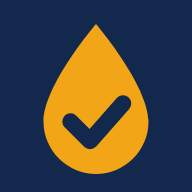
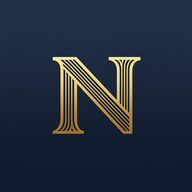
Nova marca NexStock: nome e logótipo N dourado
Ícones PWA (192/512, maskable), favicon, apple-touch-icon e cabeçalho com
o novo N; nome NexStock no título, manifest, rodapé e remetente dos emails.

Claude-Session: https://claude.ai/code/session_014tttz5mpDHSvovnBSabwYY

diff --git a/index.html b/index.html
@@ -1,8 +1,8 @@
 <!doctype html>
 <html lang="pt-PT"><head>
 <meta charset="utf-8"><meta name="viewport" content="width=device-width,initial-scale=1,viewport-fit=cover">
-<meta name="theme-color" content="#12294d"><link rel="icon" href="logo.svg" type="image/svg+xml"><link rel="apple-touch-icon" href="icon-192.png"><meta name="description" content="Stock Tabaco - inventário e movimentos centralizados">
-<link rel="manifest" href="manifest.json"><title>Stock Tabaco Central</title>
+<meta name="theme-color" content="#12294d"><link rel="icon" href="logo.png" type="image/png"><link rel="apple-touch-icon" href="apple-touch-icon.png"><meta name="description" content="NexStock - inventário e movimentos centralizados">
+<link rel="manifest" href="manifest.json"><title>NexStock</title>
 <style>
 :root{--g:#12294d;--g2:#1d3f73;--acc:#f2a516;--bg:#f2f5f9;--card:#fff;--txt:#17202c;--mut:#5d6b7d;--bd:#d9e1ec;--red:#b42318;--amber:#93590b}
 *{box-sizing:border-box}body{margin:0;background:var(--bg);color:var(--txt);font:16px system-ui,-apple-system,Segoe UI,Roboto,sans-serif}
@@ -18,7 +18,7 @@ button{font:inherit;cursor:pointer}.btn{border:0;border-radius:10px;padding:12px
 </style><script src="https://cdn.jsdelivr.net/npm/@supabase/supabase-js@2.45.4/dist/umd/supabase.js"></script>
 <script src="config.js"></script>
 </head><body>
-<header><div class="head"><div class="brand"><img src="logo.svg" alt=""><div><h1>Stock Tabaco</h1><p>Posto de abastecimento · inventário e saídas</p></div></div><div style="display:flex;gap:6px;align-items:center"><button id="logoutBtn" class="btn alt mini hidden">Sair</button><button id="installBtn" class="btn alt mini" hidden>Instalar</button></div></div></header>
+<header><div class="head"><div class="brand"><img src="logo.png" alt="NexStock"><div><h1>NexStock</h1><p>Posto de abastecimento · inventário e saídas</p></div></div><div style="display:flex;gap:6px;align-items:center"><button id="logoutBtn" class="btn alt mini hidden">Sair</button><button id="installBtn" class="btn alt mini" hidden>Instalar</button></div></div></header>
 <main>
 <section id="loginPanel" class="card">
 <h2>Acesso à aplicação</h2>
@@ -73,7 +73,7 @@ button{font:inherit;cursor:pointer}.btn{border:0;border-radius:10px;padding:12px
 <div class="card"><h2>Gestão de produtos</h2><p class="notice">Escolha um artigo para editar ou "Novo artigo" para criar. O stock só muda com entradas, contagens ou inventário.</p><label for="edSel">Artigo</label><select id="edSel"></select><label for="newName">Nome do produto</label><input id="newName" placeholder="Nome"><label for="newCategory">Categoria</label><select id="newCategory"><option>Cigarros</option><option>Onças</option><option>Tabaco aquecido</option><option>Cigarros eletrónicos</option><option>Latas</option><option>Sacos</option><option>Cigarrilhas</option><option>Outros</option></select><label for="newRepsol">Código Repsol (opcional)</label><input id="newRepsol" inputmode="numeric" placeholder="Código interno Repsol"><label for="newCode">Código de barras do maço ou unidade (opcional)</label><input id="newCode" inputmode="numeric" placeholder="Código"><label for="newVolCode">Código de barras do volume (opcional)</label><input id="newVolCode" inputmode="numeric" placeholder="Código do volume"><label for="newVolSize">Maços por volume</label><input id="newVolSize" type="number" min="1" step="1" value="10"><label for="newNotes">Notas (opcional)</label><input id="newNotes" placeholder="Notas"><label for="newQty" id="newQtyLbl">Stock inicial</label><input id="newQty" type="number" min="0" step="1" value="0"><p id="edStock" class="notice hidden"></p><button class="btn" id="addProduct" style="width:100%;margin-top:10px">Guardar produto</button><hr><h3>Exportações e backups</h3><div class="actions"><button class="btn alt" id="exportStock">Exportar stock CSV</button><button class="btn alt" id="exportMoves">Exportar movimentos CSV</button><button class="btn alt" id="backup">Backup JSON</button></div><label class="btn alt" style="display:block;text-align:center;margin-top:8px">Importar backup<input type="file" id="restore" accept=".json,application/json" hidden></label></div>
 <div class="card"><h2>Configuração da base de dados central</h2><p class="notice">A ligação é autenticada. Nunca coloques uma chave service_role nesta aplicação.</p><label for="sbUrl">URL do projeto Supabase</label><input id="sbUrl" placeholder="https://xxxx.supabase.co"><label for="sbKey">Chave pública anon/publishable</label><input id="sbKey" placeholder="Chave pública do projeto"><button class="btn" id="saveCloud" style="width:100%;margin-top:10px">Guardar configuração e testar</button><p id="cloudStatus" class="notice">Estado: modo local neste dispositivo. Sem configuração, não existe sincronização entre telemóveis.</p></div>
 <div class="card"><h2>Importante</h2><p class="notice">O pacote contém a aplicação e o catálogo inicial. Para funcionar de forma centralizada em vários telemóveis, é necessário criar o projeto Supabase, aplicar o esquema SQL fornecido no pacote e configurar as credenciais. O alojamento HTTPS é necessário para usar a câmara.</p></div>
-</section><footer>Stock Tabaco · Faça backups regulares</footer></div></main><div id="toast"></div><div id="sendModal" class="hidden"><div class="card"><h2>Terminou a contagem?</h2><p id="sendInfo" class="notice"></p><p>Quer enviar o stock para a empresa?</p><div class="actions"><button class="btn alt" id="sendNo">Ainda não</button><button class="btn acc" id="sendYes">Enviar</button></div></div></div><div id="flash"><div><b></b><span></span></div></div>
+</section><footer>NexStock · Faça backups regulares</footer></div></main><div id="toast"></div><div id="sendModal" class="hidden"><div class="card"><h2>Terminou a contagem?</h2><p id="sendInfo" class="notice"></p><p>Quer enviar o stock para a empresa?</p><div class="actions"><button class="btn alt" id="sendNo">Ainda não</button><button class="btn acc" id="sendYes">Enviar</button></div></div></div><div id="flash"><div><b></b><span></span></div></div>
 <script>
 const INITIAL=[{"id": "p1", "category": "Cigarros", "name": "AUSTIN BLUE", "barcode": "", "stock": 2, "notes": ""}, {"id": "p2", "category": "Cigarros", "name": "AUSTIN RED", "barcode": "", "stock": 2, "notes": ""}, {"id": "p3", "category": "Cigarros", "name": "CAMEL", "barcode": "", "stock": 2, "notes": ""}, {"id": "p4", "category": "Cigarros", "name": "CAMEL 100'S", "barcode": "", "stock": 2, "notes": ""}, {"id": "p5", "category": "Cigarros", "name": "CAMEL 23", "barcode": "", "stock": 2, "notes": ""}, {"id": "p6", "category": "Cigarros", "name": "CAMEL ACTIVATE", "barcode": "", "stock": 2, "notes": ""}, {"id": "p7", "category": "Cigarros", "name": "CAMEL ACTIVATE WHITE", "barcode": "", "stock": 2, "notes": ""}, {"id": "p8", "category": "Cigarros", "name": "CAMEL SOFT", "barcode": "", "stock": 2, "notes": ""}, {"id": "p9", "category": "Cigarros", "name": "CHESTERFIELD BLACK", "barcode": "", "stock": 2, "notes": ""}, {"id": "p10", "category": "Cigarros", "name": "CHESTERFIELD BLUE BOX", "barcode": "", "stock": 1, "notes": ""}, {"id": "p11", "category": "Cigarros", "name": "CHESTERFIELD BLUE SOFT", "barcode": "", "stock": 2, "notes": ""}, {"id": "p12", "category": "Cigarros", "name": "CHESTERFIELD ORIGINAL 100'S", "barcode": "", "stock": 2, "notes": ""}, {"id": "p13", "category": "Cigarros", "name": "CHESTERFIELD ORIGINAL BOX", "barcode": "", "stock": 2, "notes": ""}, {"id": "p14", "category": "Cigarros", "name": "CHESTERFIELD ORIGINAL SOFT", "barcode": "", "stock": 2, "notes": ""}, {"id": "p15", "category": "Cigarros", "name": "CHESTERFIELD ORIGINAL XXL 24U", "barcode": "", "stock": 2, "notes": ""}, {"id": "p16", "category": "Cigarros", "name": "CHESTERFIELD ORIGINAL XXL 28", "barcode": "", "stock": 2, "notes": ""}, {"id": "p17", "category": "Cigarros", "name": "CHESTERFIELD REMIX HYBRID", "barcode": "", "stock": 2, "notes": ""}, {"id": "p18", "category": "Cigarros", "name": "DENIM RED BOX", "barcode": "", "stock": 2, "notes": ""}, {"id": "p19", "category": "Cigarros", "name": "DENIM AMERICAN BLEND", "barcode": "", "stock": 2, "notes": ""}, {"id": "p20", "category": "Cigarros", "name": "JPS BLACK", "barcode": "", "stock": 2, "notes": ""}, {"id": "p21", "category": "Cigarros", "name": "JPS BLACK 100'S", "barcode": "", "stock": 2, "notes": ""}, {"id": "p22", "category": "Cigarros", "name": "JPS RED SOFT", "barcode": "", "stock": 2, "notes": ""}, {"id": "p23", "category": "Cigarros", "name": "KARELIA I (CREAM)", "barcode": "", "stock": 1, "notes": ""}, {"id": "p24", "category": "Cigarros", "name": "KARELIA S", "barcode": "", "stock": 1, "notes": ""}, {"id": "p25", "category": "Cigarros", "name": "L&M BLUE", "barcode": "", "stock": 2, "notes": ""}, {"id": "p26", "category": "Cigarros", "name": "L&M FORWARD HYBRID", "barcode": "", "stock": 2, "notes": ""}, {"id": "p27", "category": "Cigarros", "name": "L&M RED", "barcode": "", "stock": 2, "notes": ""}, {"id": "p28", "category": "Cigarros", "name": "L&M RED 22", "barcode": "", "stock": 2, "notes": ""}, {"id": "p29", "category": "Cigarros", "name": "LUCKY STRIKE ORIGINAL", "barcode": "", "stock": 2, "notes": ""}, {"id": "p30", "category": "Cigarros", "name": "LUCKY STRIKE SOFT", "barcode": "", "stock": 2, "notes": ""}, {"id": "p31", "category": "Cigarros", "name": "MARLBORO CRAFTED 100'S", "barcode": "", "stock": 2, "notes": ""}, {"id": "p32", "category": "Cigarros", "name": "MARLBORO CRAFTED BLUE", "barcode": "", "stock": 2, "notes": ""}, {"id": "p33", "category": "Cigarros", "name": "MARLBORO CRAFTED RED", "barcode": "", "stock": 2, "notes": ""}, {"id": "p34", "category": "Cigarros", "name": "MARLBORO CRAFTED RED 22", "barcode": "", "stock": 4, "notes": ""}, {"id": "p35", "category": "Cigarros", "name": "MARLBORO CRAFTED SOFT", "barcode": "", "stock": 2, "notes": ""}, {"id": "p36", "category": "Cigarros", "name": "MARLBORO GOLD", "barcode": "", "stock": 2, "notes": ""}, {"id": "p37", "category": "Cigarros", "name": "MARLBORO POCKET PACK", "barcode": "", "stock": 2, "notes": ""}, {"id": "p38", "category": "Cigarros", "name": "MARLBORO RED 100'S", "barcode": "", "stock": 2, "notes": ""}, {"id": "p39", "category": "Cigarros", "name": "MARLBORO RED BOX", "barcode": "", "stock": 2, "notes": ""}, {"id": "p40", "category": "Cigarros", "name": "MARLBORO RED SOFT", "barcode": "", "stock": 4, "notes": ""}, {"id": "p41", "category": "Cigarros", "name": "MARLBORO RED TOUCH", "barcode": "", "stock": 2, "notes": ""}, {"id": "p42", "category": "Cigarros", "name": "MARLBORO RED XL 22", "barcode": "", "stock": 4, "notes": ""}, {"id": "p43", "category": "Cigarros", "name": "MARLBORO RED XXL 26", "barcode": "", "stock": 3, "notes": ""}, {"id": "p44", "category": "Cigarros", "name": "MARLBORO SILVER BLUE", "barcode": "", "stock": 1, "notes": ""}, {"id": "p45", "category": "Cigarros", "name": "PORTUGUÊS AZUL", "barcode": "", "stock": 2, "notes": ""}, {"id": "p46", "category": "Cigarros", "name": "PORTUGUÊS VERMELHO 100'S", "barcode": "", "stock": 1, "notes": ""}, {"id": "p47", "category": "Cigarros", "name": "PORTUGUÊS VERMELHO SOFT", "barcode": "", "stock": 5, "notes": ""}, {"id": "p48", "category": "Cigarros", "name": "SG VENTIL GIGANTE", "barcode": "", "stock": 1, "notes": ""}, {"id": "p49", "category": "Cigarros", "name": "SG VENTIL RS BOX", "barcode": "", "stock": 3, "notes": ""}, {"id": "p50", "category": "Cigarros", "name": "SG VENTIL RS SOFT", "barcode": "", "stock": 3, "notes": ""}, {"id": "p51", "category": "Cigarros", "name": "WINSTON RED", "barcode": "", "stock": 2, "notes": ""}, {"id": "p52", "category": "Cigarros", "name": "WINSTON RED 100'S", "barcode": "", "stock": 2, "notes": ""}, {"id": "p53", "category": "Cigarros", "name": "WINSTON RED 100'S XL 26", "barcode": "", "stock": 0, "notes": ""}, {"id": "p54", "category": "Cigarros", "name": "WINSTON RED 22", "barcode": "", "stock": 2, "notes": ""}, {"id": "p55", "category": "Cigarros", "name": "WINSTON RED SOFT", "barcode": "", "stock": 2, "notes": ""}, {"id": "p56", "category": "Onças", "name": "AMBER LEAF 30G", "barcode": "", "stock": 2, "notes": "Quantidade manuscrita — confirmar"}, {"id": "p57", "category": "Onças", "name": "WINSTON 30G", "barcode": "", "stock": 2, "notes": "Quantidade manuscrita — confirmar"}, {"id": "p58", "category": "Onças", "name": "ONCA CAMEL 30G", "barcode": "", "stock": 2, "notes": "Quantidade manuscrita — confirmar"}, {"id": "p59", "category": "Onças", "name": "JPS BLACK 30 GR", "barcode": "", "stock": 1, "notes": "Quantidade manuscrita — confirmar"}, {"id": "p60", "category": "Onças", "name": "MARLBORO VOLUME 30 GR", "barcode": "", "stock": 1, "notes": "Quantidade manuscrita — confirmar"}, {"id": "p61", "category": "Onças", "name": "WEST RED 30 GR", "barcode": "", "stock": 1, "notes": "Quantidade manuscrita — confirmar"}, {"id": "p62", "category": "Onças", "name": "CHESTERFIELD VOLUME 30 GR", "barcode": "", "stock": 1, "notes": "Quantidade manuscrita — confirmar"}, {"id": "p63", "category": "Latas", "name": "JPS BLACK 33 GR (LATA)", "barcode": "", "stock": 3, "notes": "Quantidade manuscrita — confirmar"}, {"id": "p64", "category": "Latas", "name": "CHESTERFIELD VOLUME 36 GR (LATA)", "barcode": "", "stock": 3, "notes": "Quantidade manuscrita — confirmar"}, {"id": "p65", "category": "Latas", "name": "CAMEL 34 GR (LATA)", "barcode": "", "stock": 3, "notes": "Quantidade manuscrita — confirmar"}, {"id": "p66", "category": "Latas", "name": "RYO WINSTON LATA 30G", "barcode": "", "stock": 3, "notes": "Quantidade manuscrita — confirmar"}, {"id": "p67", "category": "Latas", "name": "MARLBORO 36 GR (LATA)", "barcode": "", "stock": 3, "notes": "Quantidade manuscrita — confirmar"}, {"id": "p68", "category": "Sacos", "name": "WINSTON 40 GR (SACO)", "barcode": "", "stock": 0, "notes": "Quantidade pouco legível — confirmar"}, {"id": "p69", "category": "Sacos", "name": "WEST ORIGINAL 45G (SACO)", "barcode": "", "stock": 0, "notes": "Quantidade pouco legível — confirmar"}, {"id": "p70", "category": "Cigarrilhas", "name": "CAMEL ACTIVATE PURPLE C/10", "barcode": "", "stock": 2, "notes": "Quantidade manuscrita — confirmar"}, {"id": "p71", "category": "Cigarrilhas", "name": "CHESTERFIELD RED FILTER C/17", "barcode": "", "stock": 2, "notes": "Quantidade manuscrita — confirmar"}, {"id": "p72", "category": "Cigarrilhas", "name": "CAMEL ACTIVATE DOUBLE C/17", "barcode": "", "stock": 1, "notes": "Quantidade manuscrita — confirmar"}];
 const KEYS={products:"stc_products",moves:"stc_moves",cfg:"stc_cloud"};
@@ -177,7 +177,7 @@ function orderLines(ps,sold,have,days,meta,useCarry){const top=new Set(ps.slice(
 function buildOrder(f,g){const ps=products.filter(p=>p.sales_month>0&&p.sales_days>0&&supOf(p.category)===g);const counted={};for(const r of f.rows)counted[r.p.id]=r.units;return orderLines(ps,p=>p.sales_month/p.sales_days,p=>counted[p.id]||0,orderDays(g))}
 function parseSales(text){const lines=text.split(/\r?\n/),num=v=>Number(String(v||"").trim().replace(/\./g,"").replace(",","."))||0;const hdr=lines.find(l=>l.includes("<th"))||"",dates=[...hdr.matchAll(/(\d{1,2}\/\d{1,2}\/\d{4}) - Quantidade/g)].map(m=>m[1]);const rows=[];for(const l of lines){const c=l.trim().split(";");if(c.length<7||!/^\d+$/.test(c[0]))continue;rows.push({code:c[0],name:c[1].trim(),qty:num(c[c.length-3])})}const ncol=rows.length?lines.find(l=>/^\d+;/.test(l.trim())).trim().split(";").length:0,days=dates.length||Math.round((ncol-7)/3);return {rows,days,from:dates[0]||"",to:dates[dates.length-1]||""}}
 function buildSalesOrder(sd,g){const by={};for(const r of sd.rows)by[r.code]=(by[r.code]||0)+r.qty;const ps=products.filter(p=>p.repsol_code&&by[p.repsol_code]>0&&supOf(p.category)===g);return orderLines(ps,p=>by[p.repsol_code]/sd.days,()=>0,orderDays(g),p=>({sold:by[p.repsol_code]}),true)}
-document.querySelectorAll(".salesFile").forEach(inp=>{inp.closest("label").addEventListener("click",()=>{document.getElementById("salesStatus").textContent=`${SUP_NAME[inp.dataset.sup]} (${SUP_FORN[inp.dataset.sup]}): à espera do ficheiro… (v23)`});inp.addEventListener("cancel",()=>{document.getElementById("salesStatus").textContent="Nenhum ficheiro escolhido."});inp.onchange=salesChange});
+document.querySelectorAll(".salesFile").forEach(inp=>{inp.closest("label").addEventListener("click",()=>{document.getElementById("salesStatus").textContent=`${SUP_NAME[inp.dataset.sup]} (${SUP_FORN[inp.dataset.sup]}): à espera do ficheiro… (v24)`});inp.addEventListener("cancel",()=>{document.getElementById("salesStatus").textContent="Nenhum ficheiro escolhido."});inp.onchange=salesChange});
 async function salesChange(e){const st=document.getElementById("salesStatus"),file=e.target.files&&e.target.files[0];st.textContent=file?"A ler "+file.name+"…":"O telemóvel não entregou nenhum ficheiro. Tente de novo e escolha o ficheiro em Transferências.";if(!file)return;try{if(currentRole!=="admin")throw Error("Só o administrador pode gerar encomendas.");if(!sb||!cloudOn())throw Error("Sem ligação ao servidor. Feche e abra a app e tente de novo.");if(/\.(xlsx?|ods)$/i.test(file.name))throw Error("Este ficheiro é Excel. Exporte o relatório de vendas em CSV.");const buf=await file.arrayBuffer();let text=new TextDecoder("utf-8").decode(buf);if(text.includes("�"))text=new TextDecoder("windows-1252").decode(buf);e.target.value="";const sd=parseSales(text);if(!sd.rows.length||!(sd.days>0))throw Error("O ficheiro não parece o relatório de vendas por artigo.");const g=e.target.dataset.sup,lines=buildSalesOrder(sd,g),cov=orderDays(g);if(!lines.length)throw Error("Nenhum artigo deste fornecedor no ficheiro corresponde aos códigos Repsol da app.");const known=new Set(products.map(p=>p.repsol_code)),unk=sd.rows.filter(r=>r.qty>0&&!known.has(r.code)),t=ordTotals({lines}),per=sd.from?(sd.from===sd.to?sd.from:sd.from+" a "+sd.to):sd.days+" dias";if(!confirm(`ENCOMENDA ${SUP_NAME[g].toUpperCase()}\nFornecedor: ${SUP_FORN[g]}\n\nVendas de ${per} (${sd.days} dia${sd.days>1?"s":""}): ${lines.length} artigos. Encomenda para ${cov} dias: ${t.volumes} volumes e ${t.unidades} unidades.${sd.days!==cov?` As vendas foram ajustadas para ${cov} dias.`:""}${unk.length?` ${unk.length} artigo(s) do ficheiro não existem na app e ficam de fora.`:""} Criar a proposta?`)){st.textContent="Proposta não criada.";return}const {error}=await sb.from("orders").insert({lines,operator:"Vendas de "+per,count_lines:[]});if(error)throw error;st.textContent=`Proposta de ${SUP_NAME[g]} (${SUP_FORN[g]}) criada a partir de ${file.name}: ${t.volumes} volumes e ${t.unidades} unidades.`+(unk.length?" Fora da app: "+unk.map(r=>r.code+" "+r.name).join(", ")+".":"");ordDirty=false;ordSelId=null;await loadOrders();const b=document.querySelector('nav button[data-tab="count"]');if(b)b.click();const c=document.getElementById("ordCard");if(c)c.scrollIntoView({behavior:"smooth"});flash(true,"Proposta de encomenda criada")}catch(err){st.textContent="Erro: "+err.message;toast("Erro: "+err.message)}};
 async function saveOrder(f){if(!sb||!cloudOn())return null;if(typeof cntOrder==="string")cntOrder={tabaco:cntOrder};cntOrder=cntOrder||{};const res={created:0,updated:0,locked:0};for(const g of ["tabaco","aquecido"]){const lines=buildOrder(f,g);if(!lines.length)continue;const body={lines,operator:f.op,count_lines:f.rows.filter(r=>supOf(r.p.category)===g).map(r=>({id:r.p.id,name:r.p.name,vol:r.vol,un:r.un}))};if(cntOrder[g]){const {data,error}=await sb.from("orders").update(body).eq("id",cntOrder[g]).eq("status","pendente").select("id");if(error)throw error;res[data&&data.length?"updated":"locked"]++;continue}const {data,error}=await sb.from("orders").insert(body).select("id").single();if(error)throw error;cntOrder[g]=data.id;res.created++}save("stc_count_order",cntOrder);return res.created+res.updated+res.locked?res:null}
 async function loadOrders(){if(!sb||!cloudOn()||currentRole!=="admin"){orders=[];return renderOrder()}if(ordDirty)return;const {data,error}=await sb.from("orders").select("*").eq("status","pendente").order("created_at",{ascending:false}).limit(10);if(!error){orders=data||[];renderOrder()}}

diff --git a/supabase/functions/enviar-encomenda/index.ts b/supabase/functions/enviar-encomenda/index.ts
@@ -74,7 +74,7 @@ async function sendMail(to: string, cc: string, subject: string, body: string, f
   if (user && pass) {
     // Porta 465 (SSL): as Edge Functions não permitem ligações de saída nas portas 25 e 587.
     const t = nodemailer.createTransport({ host: "smtp.gmail.com", port: 465, secure: true, auth: { user, pass: pass.replace(/\s/g, "") } });
-    await t.sendMail({ from: `Stock Tabaco <${user}>`, to, cc: cc || undefined, subject, text: body,
+    await t.sendMail({ from: `NexStock <${user}>`, to, cc: cc || undefined, subject, text: body,
       attachments: [{ filename: file.name, content: file.data, contentType: "application/pdf" }] });
     return;
   }
@@ -83,7 +83,7 @@ async function sendMail(to: string, cc: string, subject: string, body: string, f
   const r = await fetch("https://api.resend.com/emails", {
     method: "POST",
     headers: { Authorization: `Bearer ${key}`, "Content-Type": "application/json" },
-    body: JSON.stringify({ from: "Stock Tabaco <onboarding@resend.dev>", to: [to], cc: cc ? [cc] : undefined, subject, text: body,
+    body: JSON.stringify({ from: "NexStock <onboarding@resend.dev>", to: [to], cc: cc ? [cc] : undefined, subject, text: body,
       attachments: [{ filename: file.name, content: encodeBase64(file.data) }] }),
   });
   if (!r.ok) throw new Error(`Email recusado (${r.status})`);

diff --git a/supabase/functions/enviar-contagem/index.ts b/supabase/functions/enviar-contagem/index.ts
@@ -31,14 +31,14 @@ Deno.serve(async (req) => {
     if (user && pass) {
       // Porta 465 (SSL): as Edge Functions não permitem ligações de saída nas portas 25 e 587.
       const t = nodemailer.createTransport({ host: "smtp.gmail.com", port: 465, secure: true, auth: { user, pass: pass.replace(/\s/g, "") } });
-      await t.sendMail({ from: `Stock Tabaco <${user}>`, to: TO, subject, text: body,
+      await t.sendMail({ from: `NexStock <${user}>`, to: TO, subject, text: body,
         attachments: [{ filename: nome, content: csv, contentType: "text/csv; charset=utf-8" }] });
     } else {
       const r = await fetch("https://api.resend.com/emails", {
         method: "POST",
         headers: { Authorization: `Bearer ${key}`, "Content-Type": "application/json" },
         body: JSON.stringify({
-          from: "Stock Tabaco <onboarding@resend.dev>",
+          from: "NexStock <onboarding@resend.dev>",
           to: [TO],
           subject,
           text: body,

diff --git a/sw.js b/sw.js
@@ -1,4 +1,4 @@
-const CACHE='stock-tabaco-central-v23';const FILES=['./','./index.html','./manifest.json','./config.js','./logo.svg'];
+const CACHE='stock-tabaco-central-v24';const FILES=['./','./index.html','./manifest.json','./config.js','./logo.png','./icon-192.png','./icon-512.png','./apple-touch-icon.png'];
 self.addEventListener('install',e=>{self.skipWaiting();e.waitUntil(caches.open(CACHE).then(c=>c.addAll(FILES.map(f=>new Request(f,{cache:'reload'})))))});
 self.addEventListener('activate',e=>e.waitUntil(caches.keys().then(ks=>Promise.all(ks.filter(k=>k!==CACHE).map(k=>caches.delete(k)))).then(()=>self.clients.claim())));
 // Rede primeiro, sem usar a cache HTTP do browser (no-cache revalida sempre com o GitHub Pages).
